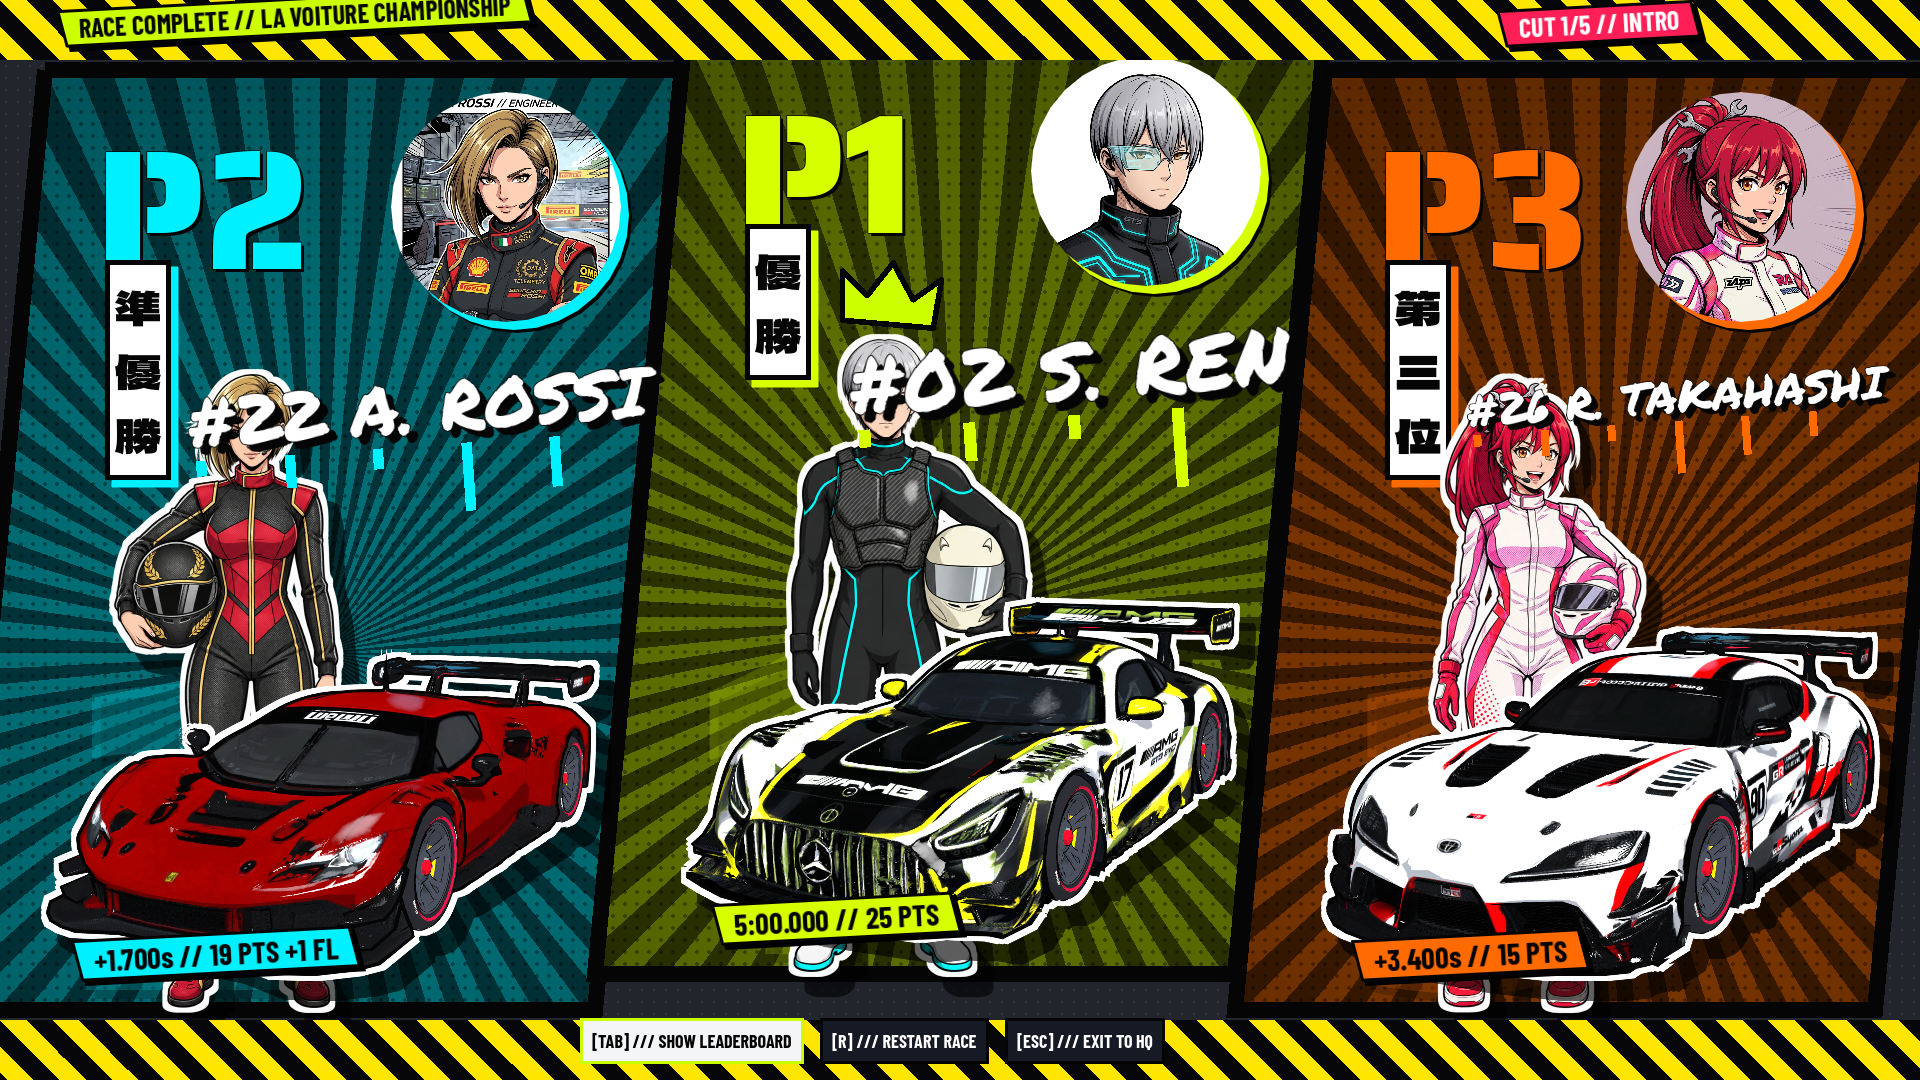
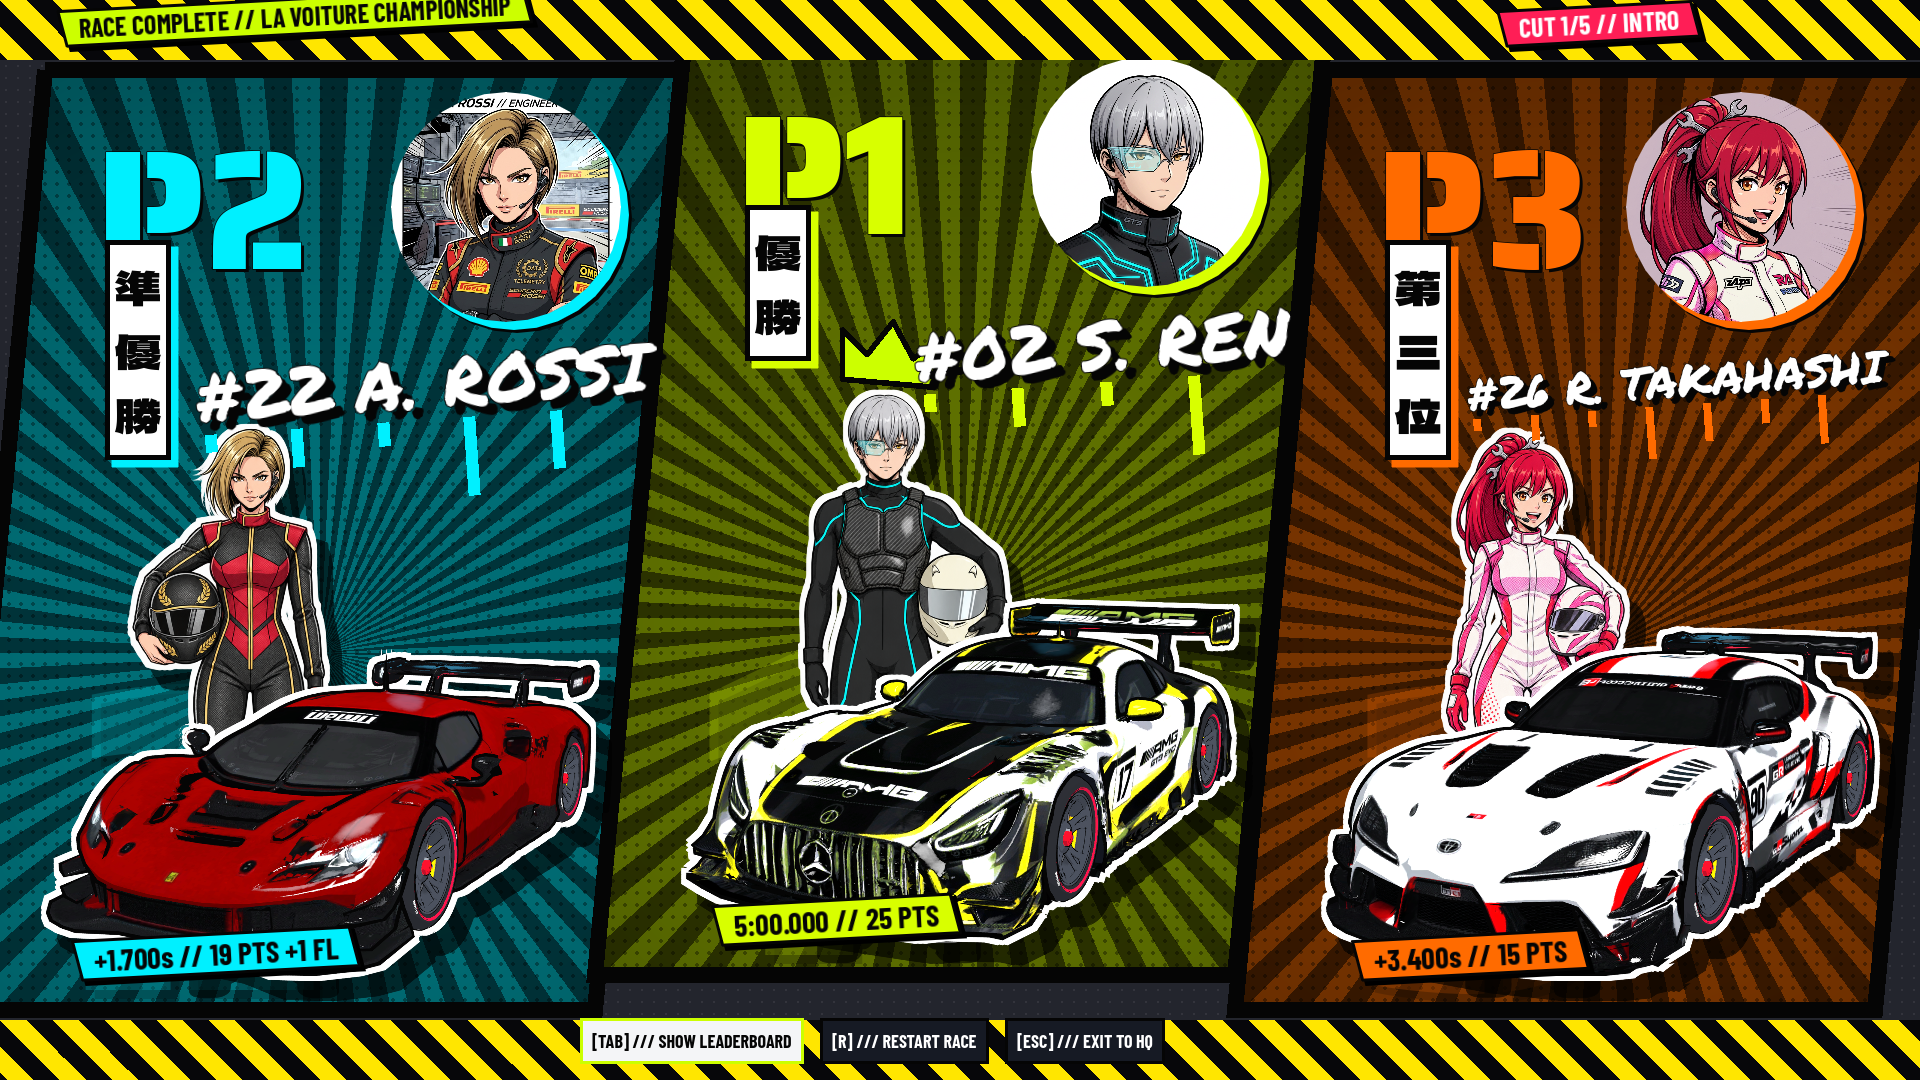
fix(podium): stop name, kanji and epithet tags colliding with the win pose
Smaller name tag, standee lifted so the soles hide behind the car, epithet
stacked above the result tag, errata note in the driver roster doc.

diff --git a/executor-report/reports/FASE-31-DRIVER-STANDEES-REPORT.md b/executor-report/reports/FASE-31-DRIVER-STANDEES-REPORT.md
@@ -40,13 +40,22 @@
 - Regresi penuh 116/116 suite, 0 failing (irisan 0-19, 20-34, 35-52, 53-72, 73-82, 83-92, 93-115).
 - Screenshot native 1080p: `executor-report/screenshots/phases/phase-31/` (intro idle, fokus P3, P2, P1, final, reduce motion).
 
+## Perbaikan tata letak panel (setelah review screenshot)
+
+Pose menang lebih tinggi dari pose lama, sehingga elemen panel saling menimpa. Perubahan di `scripts/ui/winning_panel.gd`:
+
+- Tag nama: font 80 ke 68 px, `NAME_Y` 246; berakhir di atas kepalan tangan dan helm. Plat mesin dan SFX mengikuti `NAME_Y`.
+- Standee: `STANDEE_HEIGHT` 570 dan `STANDEE_FOOT_LIFT` 36, sehingga telapak kaki tersembunyi di balik mobil (sebelumnya menyembul di bawah bumper). Mahkota mengikuti posisi standee.
+- Kotak kanji naik ke y 170; tag julukan pindah ke atas tag hasil (kiri bawah), tidak lagi memotong badan.
+- "TOYOTA GR SUPRA GT" yang tampak terpotong ternyata nama asli di `Roster.CAR_NAMES` (tanpa 3), bukan clipping.
+- `tests/test_winning_panel.gd` (31 assertion): tag nama di atas kanvas standee, julukan di atas tag hasil, telapak kaki setinggi `STANDEE_FOOT_LIFT`. 4 suite winning, 0 failing.
+- `DRIVER-CHARACTERIZATION-ROSTER.md`: catatan errata di atas bagian 1 (teks karakter asli tidak diubah).
+
 ## Belum selesai / keputusan terbuka
 
 - 52 berkas `full_body_concept.png(.import)` dan `scratch/process_character_cutout.py` kini tidak dipakai kode apa pun. Keduanya dihapus (`git rm`) atas izin developer; tetap ada di riwayat git.
-- Tag nama menutupi sebagian wajah standee pada panel fokus. Ini sudah ada pada standee lama (lihat `phases/phase-20/a-5-final.png`) dan belum diubah.
-- `DRIVER-CHARACTERIZATION-ROSTER.md` masih menulis Novak, Aoki, Weiss sebagai wanita (ASK FIRST).
 - Smoke test native 3 lap dan 60 FPS tidak dijalankan: perubahan hanya menyentuh scene podium.
 
 ## Tidak di-commit
 
-`.playwright-mcp/`, `.tmp_cutinspect/`, `tools/elevenlabs/` (skrip API yang ditolak 402), berkas `.uid` yang tidak terkait, dan seluruh isi `temp/`.
+Folder scratch `.playwright-mcp/`, `.tmp_cutinspect/`, `tools/elevenlabs/` sudah dihapus. Tidak di-commit: berkas `.uid` yang tidak terkait, dan seluruh isi `temp/`.

diff --git a/reference-assets/characters/DRIVER-CHARACTERIZATION-ROSTER.md b/reference-assets/characters/DRIVER-CHARACTERIZATION-ROSTER.md
@@ -4,6 +4,8 @@
 **Gaya Visual:** Cel-Shaded Toon Anime $\times$ Manga Halftone Neo-Brutalism $\times$ Streetwear NFS Unbound  
 **Pendekatan:** Hybrid (Karakter Orisinil berbasis Livery Tim dengan Inspirasi Persona Legenda Balap Dunia Nyata)
 
+> **Errata Fase 31 (keputusan developer):** di game, hanya **R. Silva, A. Rossi, dan R. Takahashi** yang wanita. Elena Novak (`#10`), Priya Aoki (`#14`), dan Clara Weiss (`#16`) di dokumen ini dibawakan sebagai **pria** oleh potret `radio_portrait.png` dan suara radio (`RadioVoice.DRIVER_VOICES`). Potret adalah sumber kanon; teks gender di dokumen ini tidak diubah supaya narasi aslinya tetap terbaca.
+
 ---
 
 ## 1. Filosofi Desain Karakter (Design Philosophy)
